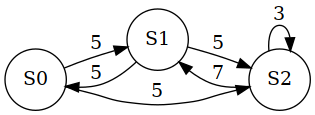
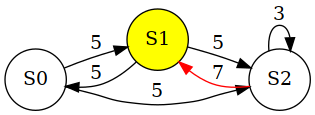
eureka mc visualization

Changed region(s): [[0.4, 0.0783, 0.8, 0.7826]]

diff --git a/mdp.py b/mdp.py
@@ -9,9 +9,7 @@ from matplotlib import pyplot as plt
 import matplotlib.image as mpimg
 import time
 
-        
 class gramPrintListener(gramListener):
-
     def __init__(self, model):
         self.model = model
 
@@ -20,7 +18,7 @@ class gramPrintListener(gramListener):
         print("States: %s" % str(self.model.states))
 
     def enterDefactions(self, ctx):
-        self.model.actions = str([str(x) for x in ctx.ID()])
+        self.model.actions = [str(x) for x in ctx.ID()]
         print("Actions: %s" % str(self.model.actions))
 
     def enterTransact(self, ctx):
@@ -47,34 +45,30 @@ class gramPrintListener(gramListener):
 class MarkovGraph:
     def __init__(self, model):
         self.model = model
-        self.current_edge = None
-        self.fp = Digraph('MarkovPath', filename='MarkovPath')
-        self.fp.attr(rankdir='LR', size='8,5')
-        self.fp.attr('node', shape='circle')
         plt.ion()
         self.fig, self.ax = plt.subplots()
         self.plot_complete_graph()
 
-    def plot_complete_graph(self):
-        self.fp.clear()
+    def plot_complete_graph(self, highlight_edge=None, highlight_node=None):
+        self.fp = Digraph('MarkovPath', filename='MarkovPath')
         self.fp.attr(rankdir='LR', size='8,5')
         self.fp.attr('node', shape='circle')
 
-        # Creiamo i nodi per tutti gli stati
         for state in self.model.states:
-            self.fp.node(state, style='filled', fillcolor='white')
+            fill = 'yellow' if state == highlight_node else 'white'
+            self.fp.node(state, style='filled', fillcolor=fill)
 
-        # Creiamo le transizioni senza azione
         for transition in self.model.transitions:
-            self.fp.edge(transition['from'], transition['to'], label=str(transition['weight']), color='black')
+            color = 'red' if highlight_edge and transition['from'] == highlight_edge[0] and transition['to'] == highlight_edge[1] else 'black'
+            self.fp.edge(transition['from'], transition['to'], label=str(transition['weight']), color=color)
 
-        # Se il modello è un MarkovDecisionProcess, creiamo anche le transizioni con azioni
-        if isinstance(self.model, MarkovDecisionProcess):
+        if hasattr(self.model, 'action_transitions') and self.model.action_transitions:
             for transition in self.model.action_transitions:
-                self.fp.edge(transition['from'], transition['to'], label=f"{transition['action']} ({transition['weight']})", color='black')
+                color = 'red' if highlight_edge and transition['from'] == highlight_edge[0] and transition['to'] == highlight_edge[1] else 'black'
+                label = f"{transition['action']} ({transition['weight']})"
+                self.fp.edge(transition['from'], transition['to'], label=label, color=color)
 
-        # Renderizziamo il grafico
-        self.fp.render(format='png')
+        self.fp.render(format='png', cleanup=True)
         self.update_plot()
 
     def update_plot(self):
@@ -83,55 +77,17 @@ class MarkovGraph:
         self.ax.imshow(image)
         self.ax.axis('off')
         plt.draw()
-        plt.pause(1)
+        plt.pause(0.5)
 
     def plot_simulation(self):
         current_state = str(self.model.actual_state)
+        previous_state = self.model.path[-2] if len(self.model.path) > 1 else None
 
-        if len(self.model.path) > 1:
-            previous_state = self.model.path[-2]
-        else:
-            previous_state = None
+        highlight_edge = (previous_state, current_state) if previous_state else None
 
-        self.fp.clear()  # Svuotiamo il grafico corrente
-        self.plot_complete_graph()  # Ripristiniamo il grafico di base
+        self.plot_complete_graph(highlight_edge=highlight_edge, highlight_node=current_state)
 
-        # Evidenziamo lo stato corrente
-        self.fp.node(current_state, style='filled', fillcolor='yellow')
 
-        # Se esiste una transizione precedente, la aggiungiamo
-        if self.current_edge:
-            self.fp.edge(self.current_edge[0], self.current_edge[1], color='black', label=str(self.get_transition_weight(self.current_edge[0], self.current_edge[1])))
-            self.current_edge = None
-
-        # Aggiungiamo solo l'ultima transizione in rosso, se esiste
-        if previous_state:
-            transition_found = False
-            for transition in self.model.transitions:
-                if transition['from'] == previous_state and transition['to'] == current_state:
-                    # Prima rimuoviamo la freccia nera, se esiste
-                    self.fp.edge(transition['from'], transition['to'], color='white')  
-                    
-                    # Ora disegniamo la transizione in rosso
-                    self.fp.edge(previous_state, current_state, color='red', label=str(transition['weight']))
-                    self.current_edge = (previous_state, current_state)
-                    transition_found = True
-                    break
-            
-            # Se non è stata trovata una transizione tra previous_state e current_state, non tracciarla
-            if not transition_found:
-                print(f"Nessuna transizione trovata tra {previous_state} e {current_state}.")
-        
-        # Renderizziamo il grafico con la transizione rossa
-        self.fp.render(format='png')
-        self.update_plot()
-
-    def get_transition_weight(self, from_state, to_state):
-        for transition in self.model.transitions:
-            if transition['from'] == from_state and transition['to'] == to_state:
-                return transition['weight']
-        return ''
-       
 def main():
     lexer = gramLexer(StdinStream())
     stream = CommonTokenStream(lexer)
@@ -149,17 +105,17 @@ def main():
     markov_graph.plot_complete_graph()
 
     if isinstance(model, MarkovDecisionProcess):
-            actions = model.simulation_init()
-            for _ in range(10):
-                if len(actions) == 0:
-                    _, actions = model.simulation_step(None)
-                    markov_graph.plot_simulation()
-                    time.sleep(1)
-                else:
-                    action = np.random.choice(list(actions))
-                    _, actions = model.simulation_step(action)
-                    markov_graph.plot_simulation()
-                    time.sleep(1)
+        actions = model.simulation_init()
+        for _ in range(10):
+            if len(actions) == 0:
+                _, actions = model.simulation_step(None)
+                markov_graph.plot_simulation()
+                time.sleep(1)
+            else:
+                action = np.random.choice(list(actions))
+                _, actions = model.simulation_step(action)
+                markov_graph.plot_simulation()
+                time.sleep(1)
     else:
         model.simulation_init()
         for _ in range(10):
